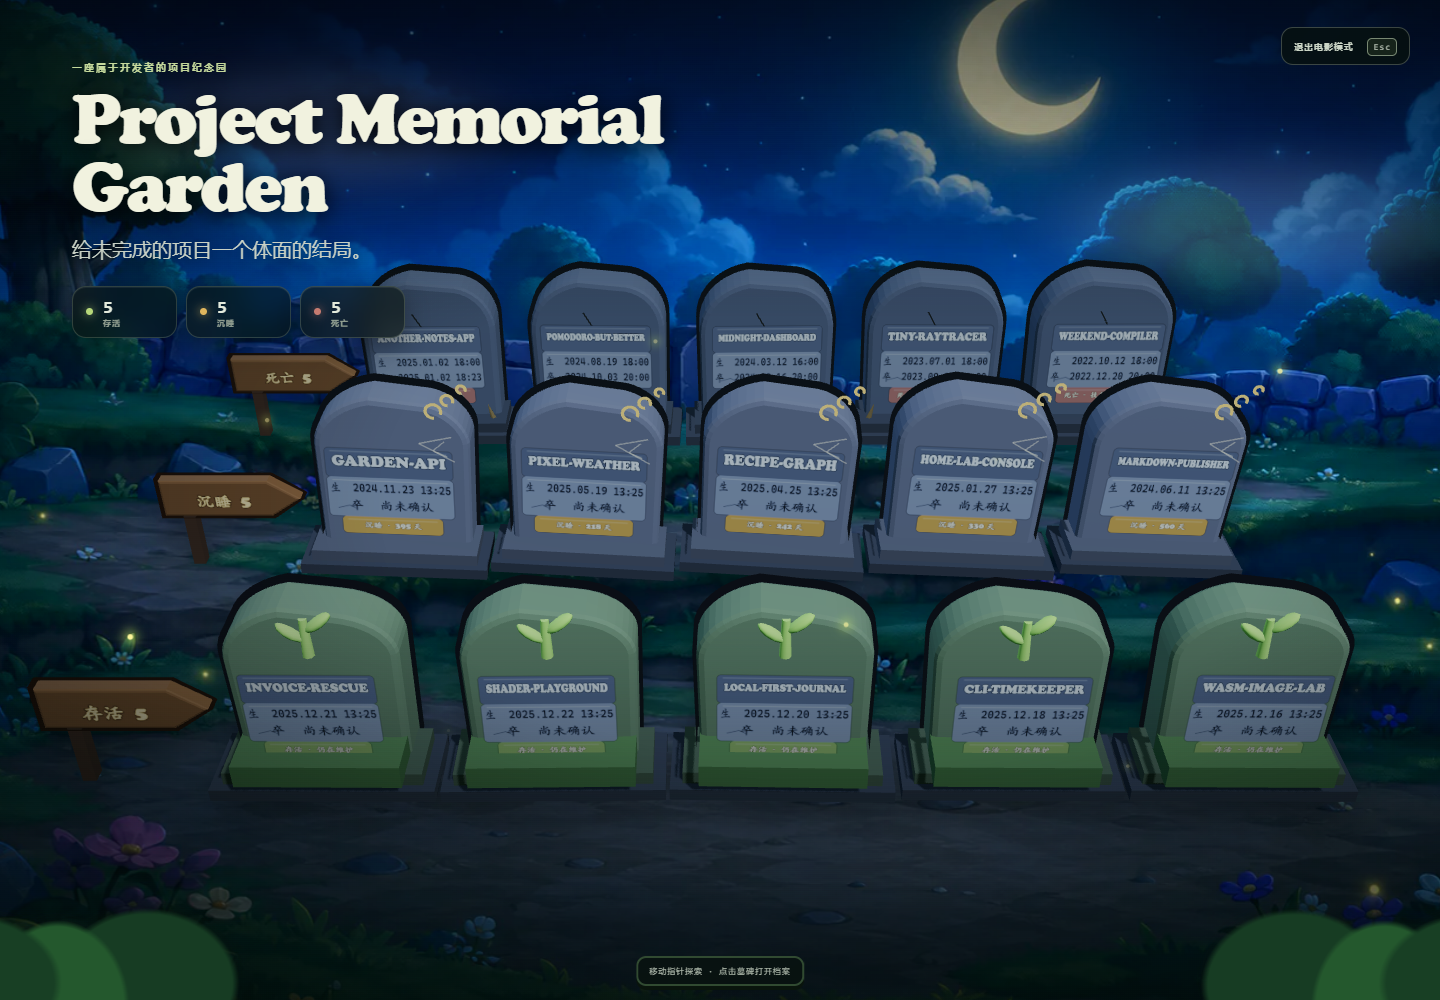
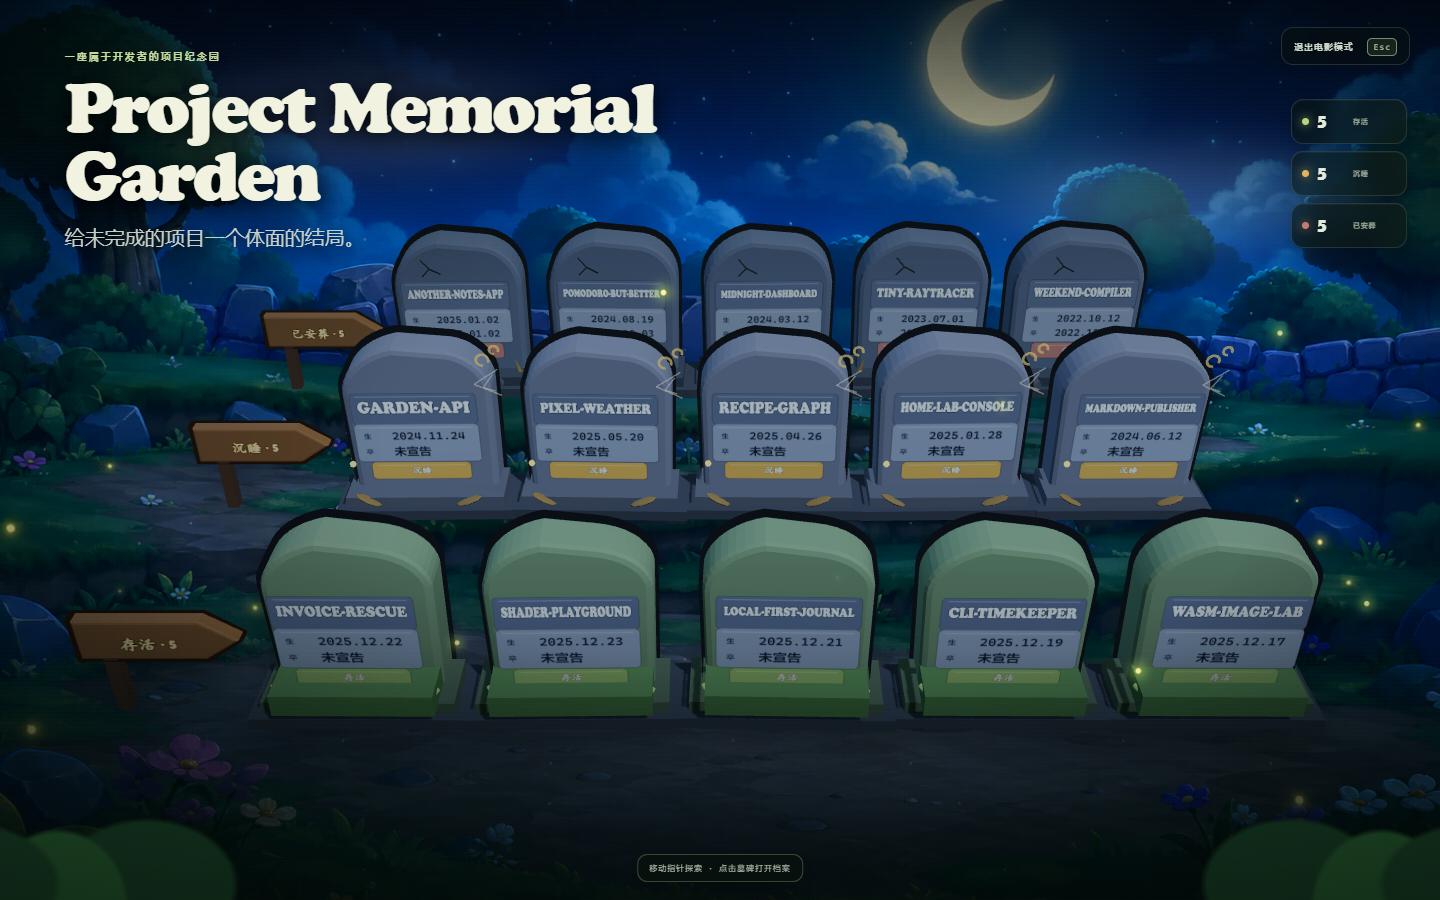
polish: align showcase localization and counts

diff --git a/src/components/Cemetery3D.tsx b/src/components/Cemetery3D.tsx
@@ -114,9 +114,7 @@ function createInscription(project: GraveProject, language: Language, theme: The
   context.font = '900 72px "Cooper Black", "Arial Rounded MT Bold", "STKaiti", "KaiTi", serif';
   context.strokeStyle = 'rgba(35,26,17,.65)';
   context.lineWidth = 7;
-  const statusText = text(language,
-    project.status === 'alive' ? '存活' : project.status === 'sleeping' ? '沉睡' : '已安葬',
-    project.status === 'alive' ? 'ACTIVE' : project.status === 'sleeping' ? 'DORMANT' : 'BURIED');
+  const statusText = tr(language, project.status === 'alive' ? 'showcase.alive' : project.status === 'sleeping' ? 'showcase.dormant' : 'showcase.buried');
   context.strokeText(statusText, 512, 675, 650);
   context.fillStyle = '#f5ead1';
   context.fillText(statusText, 512, 675, 650);
@@ -126,19 +124,33 @@ function createInscription(project: GraveProject, language: Language, theme: The
   return texture;
 }
 
-function createWoodLabel(label: string, direction: 1 | -1) {
+function createWoodLabel(label: string, count: number, direction: 1 | -1) {
   const canvas = document.createElement('canvas');
   canvas.width = 768;
   canvas.height = 180;
   const context = canvas.getContext('2d')!;
-  context.fillStyle = '#f0d38d';
-  context.font = '900 104px "Cooper Black", "Arial Rounded MT Bold", "STKaiti", "KaiTi", serif';
-  context.textAlign = 'center';
+  const centerX = direction === 1 ? 350 : 420;
+  const labelFont = '900 92px "Cooper Black", "Arial Rounded MT Bold", "STKaiti", "KaiTi", serif';
+  const countFont = '800 70px "Segoe UI", "SF Mono", "Cascadia Mono", Consolas, sans-serif';
+  const countText = `· ${count}`;
+  context.font = labelFont;
+  const labelWidth = Math.min(context.measureText(label).width, 430);
+  context.font = countFont;
+  const countWidth = Math.min(context.measureText(countText).width, 145);
+  let cursorX = centerX - (labelWidth + 24 + countWidth) / 2;
+  context.textAlign = 'left';
   context.textBaseline = 'middle';
   context.lineWidth = 8;
   context.strokeStyle = '#2b1a10';
-  context.strokeText(label, direction === 1 ? 350 : 420, 90, 590);
-  context.fillText(label, direction === 1 ? 350 : 420, 90, 590);
+  context.fillStyle = '#f0d38d';
+  context.font = labelFont;
+  context.strokeText(label, cursorX, 90, 430);
+  context.fillText(label, cursorX, 90, 430);
+  cursorX += labelWidth + 24;
+  context.font = countFont;
+  context.lineWidth = 6;
+  context.strokeText(countText, cursorX, 92, 145);
+  context.fillText(countText, cursorX, 92, 145);
   const texture = new THREE.CanvasTexture(canvas);
   texture.colorSpace = THREE.SRGBColorSpace;
   return texture;
@@ -294,7 +306,7 @@ function makeGrave(project: GraveProject, language: Language, theme: Theme, ston
   return { group, body, outline, project, restingY: 0, restingRotationY: deterministicTilt, restingScale: scale, entranceDelay: 0 };
 }
 
-function makeStatusSign(status: GraveProject['status'], label: string, direction: 1 | -1, theme: Theme) {
+function makeStatusSign(status: GraveProject['status'], label: string, count: number, direction: 1 | -1, theme: Theme) {
   const group = new THREE.Group();
   const shape = new THREE.Shape();
   if (direction === 1) {
@@ -316,7 +328,7 @@ function makeStatusSign(status: GraveProject['status'], label: string, direction
   outline.position.y = 1.35;
   outline.userData.status = status;
   group.add(outline);
-  const texture = createWoodLabel(label, direction);
+  const texture = createWoodLabel(label, count, direction);
   const lettering = new THREE.Mesh(new THREE.PlaneGeometry(2.42, 0.58), new THREE.MeshBasicMaterial({ map: texture, transparent: true, depthWrite: false, polygonOffset: true, polygonOffsetFactor: -4 }));
   lettering.position.set(0, 1.35, 0.22);
   lettering.renderOrder = 4;
@@ -436,15 +448,15 @@ export default function Cemetery3D({ projects, language, theme, onSelect, onStat
       rowCursor += Math.ceil(section.projects.length / columns);
     }
 
-    const signData: Array<[GraveProject['status'], string]> = [
-      ['alive', `${text(language, '存活', 'ACTIVE')}  ${statusCounts.alive}`],
-      ['sleeping', `${text(language, '沉睡', 'DORMANT')}  ${statusCounts.sleeping}`],
-      ['dead', `${text(language, '死亡', 'DECEASED')}  ${statusCounts.dead}`],
+    const signData: Array<[GraveProject['status'], string, number]> = [
+      ['alive', tr(language, 'showcase.alive'), statusCounts.alive],
+      ['sleeping', tr(language, 'showcase.dormant'), statusCounts.sleeping],
+      ['dead', tr(language, 'showcase.buried'), statusCounts.dead],
     ];
-    for (const [status, label] of signData) {
+    for (const [status, label, count] of signData) {
       const anchor = statusAnchors.get(status);
       if (!anchor) continue;
-      const sign = makeStatusSign(status, label, 1, theme);
+      const sign = makeStatusSign(status, label, count, 1, theme);
       sign.group.position.copy(anchor);
       sign.group.scale.setScalar(0.98);
       const restingX = sign.group.position.x;
@@ -581,15 +593,15 @@ export default function Cemetery3D({ projects, language, theme, onSelect, onStat
         <h1>{tr(language, 'showcase.title')}</h1>
         <span>{tr(language, 'showcase.tagline')}</span>
         <div className="showcase-stats">
-          <button onClick={() => { onStatusFilter('alive'); onExitShowcase?.(); }}><i className="alive" /><b>{statusCounts.alive}</b><small>{text(language, '存活', 'ALIVE')}</small></button>
-          <button onClick={() => { onStatusFilter('sleeping'); onExitShowcase?.(); }}><i className="sleeping" /><b>{statusCounts.sleeping}</b><small>{text(language, '沉睡', 'DORMANT')}</small></button>
-          <button onClick={() => { onStatusFilter('dead'); onExitShowcase?.(); }}><i className="dead" /><b>{statusCounts.dead}</b><small>{text(language, '死亡', 'BURIED')}</small></button>
+          <button onClick={() => { onStatusFilter('alive'); onExitShowcase?.(); }}><i className="alive" /><b>{statusCounts.alive}</b><small>{tr(language, 'showcase.alive')}</small></button>
+          <button onClick={() => { onStatusFilter('sleeping'); onExitShowcase?.(); }}><i className="sleeping" /><b>{statusCounts.sleeping}</b><small>{tr(language, 'showcase.dormant')}</small></button>
+          <button onClick={() => { onStatusFilter('dead'); onExitShowcase?.(); }}><i className="dead" /><b>{statusCounts.dead}</b><small>{tr(language, 'showcase.buried')}</small></button>
         </div>
       </div>}
       {showcase && <button type="button" className="exit-showcase" onClick={onExitShowcase}>{tr(language, 'showcase.exit').toUpperCase()} <kbd>Esc</kbd></button>}
-      <div className="cinema-topline"><span>{text(language, '项目纪念园', 'PROJECT MEMORIAL GARDEN')}</span><i /> <b>{projects.length.toString().padStart(3, '0')}</b></div>
-      <div className="cinema-help">{text(language, '移动指针探索 · 点击墓碑打开档案', 'MOVE TO EXPLORE · SELECT A STONE TO OPEN')}</div>
-      {hovered && <div className="cinema-inspector"><span>{hovered.technologies[0] ?? 'PROJECT'}</span><strong>{hovered.name}</strong><p>{formatDate(hovered.bornAt)} <i>→</i> {hovered.death ? formatDate(hovered.death.date) : text(language, '尚未确认', 'PRESENT')}</p></div>}
+      <div className="cinema-topline"><span>{tr(language, 'showcase.sceneTitle')}</span><i /> <b>{projects.length.toString().padStart(3, '0')}</b></div>
+      <div className="cinema-help">{tr(language, 'showcase.help')}</div>
+      {hovered && <div className="cinema-inspector"><span>{hovered.technologies[0] ?? tr(language, 'showcase.project')}</span><strong>{hovered.name}</strong><p>{formatDate(hovered.bornAt)} <i>→</i> {hovered.death ? formatDate(hovered.death.date) : tr(language, 'showcase.present')}</p></div>}
       {webglError && <div className="webgl-error">{text(language, '当前设备无法启用 3D 渲染，请更新显卡驱动。', '3D rendering is unavailable. Please update your graphics driver.')}</div>}
       {projects.length === 0 && <div className="webgl-empty">{text(language, '没有符合筛选条件的项目', 'NO PROJECTS MATCH THE CURRENT FILTERS')}</div>}
     </div>

diff --git a/src/lib/i18n.ts b/src/lib/i18n.ts
@@ -71,6 +71,13 @@ const messages = {
   'showcase.title': ['Project Memorial Garden', 'Project Memorial Garden'],
   'showcase.tagline': ['给未完成的项目一个体面的结局。', 'A dignified ending for unfinished projects.'],
   'showcase.exit': ['退出电影模式', 'Exit showcase'],
+  'showcase.alive': ['存活', 'Alive'],
+  'showcase.dormant': ['沉睡', 'Dormant'],
+  'showcase.buried': ['已安葬', 'Buried'],
+  'showcase.sceneTitle': ['项目纪念园', 'PROJECT MEMORIAL GARDEN'],
+  'showcase.help': ['移动指针探索 · 点击墓碑打开档案', 'MOVE TO EXPLORE · SELECT A STONE TO OPEN'],
+  'showcase.project': ['项目', 'PROJECT'],
+  'showcase.present': ['尚未确认', 'PRESENT'],
   'table.project': ['项目', 'Project'],
   'table.status': ['状态', 'Status'],
   'table.timeline': ['时间档案', 'Timeline'],

diff --git a/src/styles.css b/src/styles.css
@@ -668,7 +668,7 @@ input[type="range"] { width: 100%; height: 3px; margin-top: 12px; accent-color: 
 .showcase-stats button:nth-child(3) { animation-delay: .5s; }
 .showcase-stats button:hover { transform: translate3d(-3px,0,0) scale(1.02); background: #17261ba8; }
 .showcase-stats i { grid-row: 1; }
-.showcase-stats b { font-size: 17px; line-height: 1; }
+.showcase-stats b { font: 800 17px/1 "Segoe UI", "SF Mono", "Cascadia Mono", Consolas, sans-serif; font-variant-numeric: tabular-nums; }
 .showcase-stats small { font-size: 7px; letter-spacing: .1em; }
 @keyframes stats-enter { from { opacity: 0; transform: translate3d(12px,0,0) scale(.97); } }
 